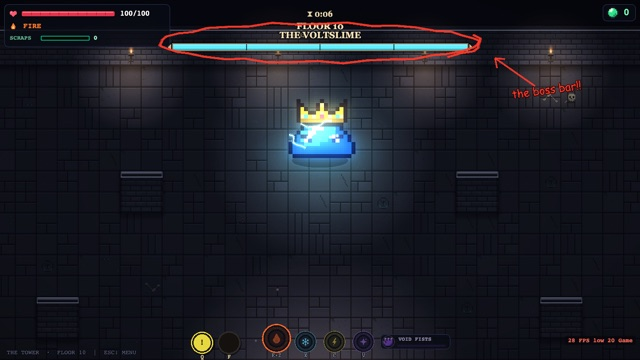
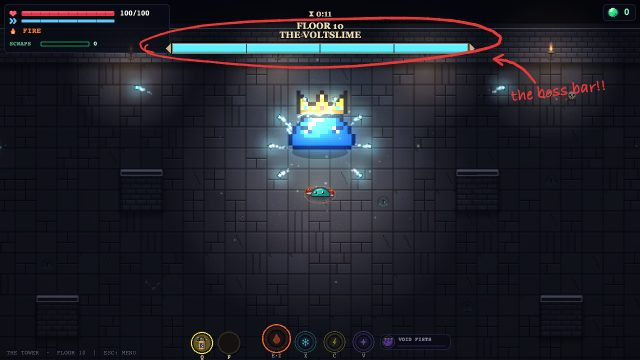
The guide's pictures as the game looks now: the stamina bar under your health, the Blizzard's frost along the edges, white-hot lava under Scorch's meteors, every kind in the cast in its current model, the Voltslime fighting on Tower floor 10

diff --git a/guide/game.html b/guide/game.html
@@ -289,7 +289,7 @@
   <h2 id="cast">The cast</h2>
   <p>Each enemy wears something that shows what it does: horns on the Berserker, the puckered mouth on the Spitter, a trident on the Tidal Guard. The first time you walk into a room with one you've never met, the fight holds and a card explains it. That happens once per kind, ever.</p>
   <figure>
-    <img src="../assets/guide/9.jpg" width="640" height="234" alt="Two rows of enemies of many kinds, each a slime with its own colour and something on its head: horns, a stone shell, a crown, a spout, a sprout, an anchor, a flower." loading="lazy">
+    <img src="../assets/guide/9.jpg" width="640" height="234" alt="Two rows of enemies of many kinds, each a slime with its own colour and something that marks it: horns, a sprout, an anchor, a crown, a top hat, a swim ring, a trident." loading="lazy">
     <figcaption>Some of the cast. What each one wears is a clue to what it does.</figcaption>
   </figure>
   <p>The <strong>book of enemies</strong> on the map lists every one, as it looks in a fight, with its card. Use the chips along the top to show one type at a time.</p>
@@ -366,7 +366,7 @@
   <h2 id="bosses">Bosses</h2>
   <p>A boss has a health bar across the top of the screen, and each boss in reach gets its own. Every attack has a tell first: bolt volleys, stomps that ring outward, ripples, waves of minions. A boss makes an entrance; <kbd>Esc</kbd> skips it.</p>
   <figure>
-    <img src="../assets/guide/12.jpg" width="640" height="360" alt="Floor 10 of the Tower: a big blue crowned slime crackling with lightning in the middle of the arena. Across the top, the bar labelled FLOOR 10, THE VOLTSLIME is circled in red with the note the boss bar." loading="lazy">
+    <img src="../assets/guide/12.jpg" width="640" height="360" alt="Floor 10 of the Tower: a big blue crowned slime crackling with lightning near the top of the arena, sparks flying off it, and your slime a few steps below. Across the top, the bar labelled FLOOR 10, THE VOLTSLIME is circled in red with the note the boss bar." loading="lazy">
     <figcaption>The Voltslime on floor 10 of the Tower, and its bar.</figcaption>
   </figure>
   <p>In the Tower, <strong>every tenth floor is a boss</strong>: the Voltslime on floor 10, the Void Sovereign on floor 20, others above, and then they come round again. When a Tower boss falls to half health, the arena changes shape round you. Beating one pays five times a normal floor, plus 3 sealed books, a garden seed and a relic you don't own yet. Tower bosses don't give fragments; story bosses do (see <a href="#upgrades">Ult upgrades</a>). The Tower has <a href="tower.html">its own guide</a>.</p>
@@ -379,7 +379,7 @@
   <h2 id="ults">Ults and signatures</h2>
   <p>Each element's <span class="term">ult</span> goes off when its gem is full. <kbd>E</kbd> casts the ult of the element you hold; <kbd>Z</kbd> <kbd>X</kbd> <kbd>C</kbd> <kbd>V</kbd> cast fire's, ice's, lightning's and cosmic's from whatever you hold.</p>
   <figure>
-    <img src="../assets/guide/13.jpg" width="640" height="360" alt="Scorch at work: meteors crashing all over the room, glowing craters, damage numbers over a crowd of enemies, the words METEOR STRIKE over the slime, and its health at 101 of 100." loading="lazy">
+    <img src="../assets/guide/13.jpg" width="640" height="360" alt="Scorch at work: meteors crashing all over the room, glowing craters in pools of white-hot lava, damage numbers over a crowd of enemies, the words METEOR STRIKE over the slime, and its health at 103 of 100." loading="lazy">
     <figcaption>An ult running: Scorch, with Meteor Strike under your click.</figcaption>
   </figure>
   <ul>
@@ -405,7 +405,7 @@
   <h2 id="scorch">Scorch <span class="fire">· fire</span></h2>
   <p>Eight seconds. You laugh, and meteors of molten rock rain down across the room. After the opening volley your attack becomes <span class="term">Meteor Strike</span>. You can't switch away from fire until it ends.</p>
   <figure>
-    <img src="../assets/guide/14.jpg" width="640" height="360" alt="Scorch: meteors embedded in glowing craters round the room, METEOR STRIKE over the slime, big yellow damage numbers over a pack of enemies, and the slime's health at 107 of 100." loading="lazy">
+    <img src="../assets/guide/14.jpg" width="640" height="360" alt="Scorch: meteors embedded in glowing craters round the room, white-hot lava under a pack of enemies, SUPER BURN and big yellow damage numbers over them, and the slime's health at 107 of 100." loading="lazy">
     <figcaption>Your health reads 107/100: Scorch's burn ticks can heal you past full.</figcaption>
   </figure>
   <div class="wrap">
@@ -437,7 +437,7 @@
   <h2 id="blizzard">Blizzard <span class="ice">· ice</span></h2>
   <p>Twenty seconds of deadly cold, and you can switch elements all through it. It hits hard, but it costs you.</p>
   <figure>
-    <img src="../assets/guide/15.jpg" width="640" height="360" alt="Blizzard: the whole room iced over, frost creeping in at the screen's corners, and a towering white ice tornado in the middle with enemies round it." loading="lazy">
+    <img src="../assets/guide/15.jpg" width="640" height="360" alt="Blizzard: the whole room iced over, frost creeping in along the screen's edges and cracked into shards at the corners, and a towering white ice tornado in the middle with enemies round it." loading="lazy">
     <figcaption>Gale Storm: a tornado forming round you, about to be sent after them.</figcaption>
   </figure>
   <div class="wrap">
@@ -468,7 +468,7 @@
   <h2 id="fork">Fork <span class="bolt">· lightning</span></h2>
   <p>Time stops. You become a bolt that streaks to the nearest enemy, then at random through every other one in the room, counting a combo over each, and back to you. A snap, and the whole web ignites.</p>
   <figure>
-    <img src="../assets/guide/16.jpg" width="640" height="360" alt="Fork: the room tinted yellow, a jagged bolt running from the slime through several enemies, with x2 and x1 combo counts over the ones it passed." loading="lazy">
+    <img src="../assets/guide/16.jpg" width="640" height="360" alt="Fork: time stopped, a jagged bolt running from the slime through two enemies, with x1 and x2 combo counts over the ones it passed." loading="lazy">
     <figcaption>The bolt's path, with the combo count over each enemy it went through.</figcaption>
   </figure>
   <div class="wrap">
@@ -499,7 +499,7 @@
   <figure id="fig-ascend">
     <div class="shot"><img src="../assets/guide/17.jpg" width="640" height="360" alt="Ascend: the room flooded with purple cosmic fluid, pink glows on the hexed enemies, the health bar at the top left reading 125 of 125, and an ASCEND bar beside the gems at the bottom. Chalk arrows point at the health, labelled plus 25% max HP, and at the Ascend bar." loading="lazy">
       <svg class="ink" viewBox="0 0 640 360" aria-hidden="true">
-        <path d="M112 56 C 111 42, 121 29, 131 22"/><path d="M131 22 l -6.4 11.3 M131 22 l -11.0 -0.3"/>
+        <path d="M117 54 C 116 40, 126 27, 136 20"/><path d="M136 20 l -6.4 11.3 M136 20 l -11.0 -0.3"/>
         <text x="60" y="74">+25% max HP</text>
         <path d="M482 304 C 472 321, 451 332, 434 336"/><path d="M434 336 l 10.0 -8.3 M434 336 l 10.2 4.2"/>
         <text x="470" y="298">Ascend's time</text>
